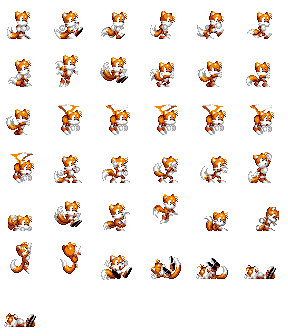
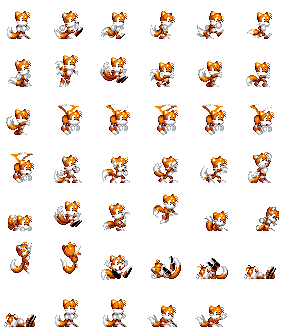
Add throwing in crouch animation

diff --git a/app/jni/src/character.cpp b/app/jni/src/character.cpp
@@ -26,7 +26,7 @@ void TA_Character::handleInput()
     //TA::printLog("%f %f", position.x, position.y);
     controller.setAnalogStick(helitail);
     controller.update();
-    if(climb || throwing || dead) {
+    if(state != STATE_NORMAL) {
         return;
     }
 
@@ -42,15 +42,15 @@ void TA_Character::update()
         areaLoopSound.play();
     }
 
-    if(climb) {
+    if(state == STATE_CLIMB_LOW || state == STATE_CLIMB_HIGH) {
         updateClimbAnimation();
         return;
     }
-    if(throwing) {
+    if(state == STATE_THROW_BOMB) {
         updateThrowAnimation();
         return;
     }
-    if(dead) {
+    if(state == STATE_DEAD) {
         invincibleTimeLeft -= TA::elapsedTime;
         return;
     }
@@ -59,7 +59,7 @@ void TA_Character::update()
     setFlip(flip);
     updateObjectCollision();
     updateTool();
-    if(throwing) {
+    if(state == STATE_THROW_BOMB) {
         return;
     }
     updateAnimation();
@@ -122,7 +122,7 @@ void TA_Character::updateTool()
         return;
     }
     switch(currentTool) {
-        case TA_TOOL_BOMB:
+        case TOOL_BOMB:
             if(helitail) {
                 links.objectSet->spawnObject<TA_Bomb>(position + TA_Point(20, 32), flip, TA_BOMB_MODE_HELITAIL);
             }
@@ -130,12 +130,14 @@ void TA_Character::updateTool()
                 links.objectSet->spawnObject<TA_Bomb>(position + TA_Point((flip ? 25 : 10), 8), flip, TA_BOMB_MODE_AIR);
             }
             else if(crouch) {
-                links.objectSet->spawnObject<TA_Bomb>(position + TA_Point((flip ? 12 : 23), 20), flip, TA_BOMB_MODE_CROUCH);
+                links.objectSet->spawnObject<TA_Bomb>(position + TA_Point((flip ? 12 : 23), 22), flip, TA_BOMB_MODE_CROUCH);
+                setAnimation("throw_crouch");
+                state = STATE_THROW_BOMB;
             }
             else {
                 links.objectSet->spawnObject<TA_Bomb>(position + TA_Point((flip ? 27 : 8), 12), flip, TA_BOMB_MODE_DEFAULT);
                 setAnimation("throw");
-                throwing = true;
+                state = STATE_THROW_BOMB;
             }
             break;
 
@@ -148,9 +150,9 @@ void TA_Character::updateClimbAnimation()
 {
     if(!isAnimated()) {
         position = climbPosition;
-        climb = false;
+        state = STATE_NORMAL;
     }
-    else if(climbHigh && getAnimationFrame() == 1) {
+    else if(state == STATE_CLIMB_HIGH && getAnimationFrame() == 1) {
         setPosition(position.x, position.y - 8);
     }
     else if(getAnimationFrame() == 2) {
@@ -162,7 +164,7 @@ void TA_Character::updateClimbAnimation()
 void TA_Character::updateThrowAnimation()
 {
     if(!isAnimated()) {
-        throwing = false;
+        state = STATE_NORMAL;
     }
     updateFollowPosition();
 }
@@ -170,7 +172,7 @@ void TA_Character::updateThrowAnimation()
 void TA_Character::updateFollowPosition()
 {
     TA_Point sourcePosition = position;
-    if(climb) {
+    if(state == STATE_CLIMB_LOW || state == STATE_CLIMB_HIGH) {
         sourcePosition.x = climbPosition.x;
     }
     followPosition = sourcePosition + TA_Point(22 - TA::screenWidth / 2, 26 - TA::screenHeight / 2);

diff --git a/app/jni/src/character_collision.cpp b/app/jni/src/character_collision.cpp
@@ -30,7 +30,7 @@ void TA_Character::updateCollisions()
         useHalfSolidTiles = true;
     }
     else if(velocity.y > 0.01) {
-        if(!useHalfSolidTiles) {
+        if(!useHalfSolidTiles) { // TODO: find a better way to fix this
             useHalfSolidTiles = true;
             TA_Polygon hitbox;
             hitbox.setRectangle(topLeft, bottomRight);
@@ -45,7 +45,7 @@ void TA_Character::updateCollisions()
     }
 
     updateClimb();
-    if(climb) {
+    if(state == STATE_CLIMB_LOW || state == STATE_CLIMB_HIGH) {
         return;
     }
     int flags = moveAndCollide(topLeft, bottomRight, velocity, ground);
@@ -103,7 +103,7 @@ void TA_Character::updateCollisions()
             invincibleTimeLeft = invincibleTime;
             if(rings < 0) {
                 setAnimation("death");
-                dead = true;
+                state = STATE_DEAD;
             }
         }
     }
@@ -121,7 +121,7 @@ void TA_Character::updateClimb()
     }
 
     auto updateClimbPosition = [&](int height) {
-        if(climb) {
+        if(state == STATE_CLIMB_LOW || state == STATE_CLIMB_HIGH) {
             return;
         }
         climbPosition = position;
@@ -166,15 +166,14 @@ void TA_Character::updateClimb()
             if(flags == TA_GROUND_COLLISION) {
                 ground = true;
                 jump = spring = wall = false;
-                climb = true;
                 climbTime = 0;
                 if(height == 32) {
                     setAnimation("climb_high");
-                    climbHigh = true;
+                    state = STATE_CLIMB_HIGH;
                 }
                 else {
                     setAnimation("climb");
-                    climbHigh = false;
+                    state = STATE_CLIMB_LOW;
                 }
                 if(controller.getDirection() == TA_DIRECTION_LEFT) {
                     position = climbPosition + TA_Point(13, height);

diff --git a/app/jni/src/objects/bomb.cpp b/app/jni/src/objects/bomb.cpp
@@ -2,23 +2,23 @@
 #include "tools.h"
 #include "objects/explosion.h"
 
-void TA_Bomb::load(TA_Point newPosition, bool newDirection, TA_BombMode mode) {
+void TA_Bomb::load(TA_Point newPosition, bool newDirection, TA_BombMode newMode) {
     TA_Sprite::load("objects/bomb.png");
     explosionSound.load("sound/explosion.ogg", TA_SOUND_CHANNEL_SFX);
     position = newPosition;
     setPosition(position);
     hitbox.setRectangle(TA_Point(1.5, 2.5), TA_Point(11.5, 13.5));
+    mode = newMode;
     if(mode == TA_BOMB_MODE_AIR) {
         velocity = startVelocity;
         timer = 10;
     }
     if (mode == TA_BOMB_MODE_CROUCH) {
         velocity = startCrouchVelocity;
-        timer = 10;
     }
     else if (mode == TA_BOMB_MODE_HELITAIL) {
         velocity = startHelitailVelocity;
-        timer = 10;
+        timer =  10;
     }
     else {
         velocity = startVelocity;
@@ -39,14 +39,20 @@ bool TA_Bomb::checkPawnCollision(TA_Polygon &hitbox)
 
 bool TA_Bomb::update()
 {
-    bool flag1 = (timer <= 6);
+    int moveTime = (mode == TA_BOMB_MODE_DEFAULT ? 6 : 8);
+    bool flag1 = (timer <= moveTime);
     timer += TA::elapsedTime;
-    bool flag2 = (timer >= 6);
+    bool flag2 = (timer >= moveTime);
 
     if(flag1 && flag2) {
-        position = position + TA_Point(9 * (direction ? -1 : 1), -6);
+        if(mode == TA_BOMB_MODE_DEFAULT) {
+            position = position + TA_Point(9 * (direction ? -1 : 1), -6);
+        }
+        else {
+            position = position + TA_Point(5 * (direction ? -1 : 1), -6);
+        }
     }
-    else if(timer >= 6) {
+    else if(timer >= moveTime) {
         velocity.y += grv * TA::elapsedTime;
         moveAndCollide(TA_Point(2, 3), TA_Point(11, 13), velocity);
         int flags;

diff --git a/app/jni/src/character.h b/app/jni/src/character.h
@@ -8,12 +8,20 @@
 #include "tilemap.h"
 #include "sound.h"
 
-enum TA_CharacterTool {
-    TA_TOOL_BOMB
-};
-
 class TA_Character : public TA_Pawn {
 private:
+    enum TA_CharacterTool {
+        TOOL_BOMB
+    };
+
+    enum TA_CharacterState {
+        STATE_NORMAL, // TODO: create ground, air, helitail state
+        STATE_CLIMB_LOW,
+        STATE_CLIMB_HIGH,
+        STATE_THROW_BOMB,
+        STATE_DEAD
+    };
+
     const double jmp = -2.5;
     const double grv = 0.125;
     const double acc = 0.25;
@@ -35,15 +43,18 @@ private:
     TA_Polygon hitbox;
     TA_Point topLeft, bottomRight;
 
+    TA_CharacterState state = STATE_NORMAL;
+
     bool ground = false, helitail = false, wall = false, flip = false;
     bool jump = false, jumpReleased = false, spring = false;
-    bool climb = false, climbHigh = false, throwing = false, hurt = false, dead = false;
+    bool hurt = false;
     bool lookUp = false, crouch = false;
     bool useHalfSolidTiles = false;
+
     double jumpTime = 0, climbTime = 0, helitailTime = 0, invincibleTimeLeft = -1;
     double deltaX = 0;
     int rings = 1;
-    int currentTool = TA_TOOL_BOMB;
+    int currentTool = TOOL_BOMB;
 
     void physicsStep();
     void updateGround();
@@ -73,7 +84,7 @@ public:
 
     int getRingsCount() {return std::max(0, rings);}
     int getCurrentItem() {return 0;}
-    bool gameOver() {return dead && invincibleTimeLeft <= 0;}
+    bool gameOver() {return state == STATE_DEAD && invincibleTimeLeft <= 0;}
 };
 
 #endif // TA_CHARACTER_H

diff --git a/app/jni/src/objects/bomb.h b/app/jni/src/objects/bomb.h
@@ -16,12 +16,14 @@ class TA_Bomb : public TA_Object {
 private:
     TA_Point velocity;
     TA_Sound explosionSound;
+    TA_BombMode mode;
+
     bool direction;
     double timer = 0;
 
     const double speed = 1.15;
     const TA_Point startVelocity = {2 * speed, -1 * speed};
-    const TA_Point startCrouchVelocity = {1.35 * speed, -1 * speed};
+    const TA_Point startCrouchVelocity = {1.35 * speed, -0.7 * speed};
     const TA_Point startHelitailVelocity = {0, 0};
     const double grv = 0.125 * speed * speed;
 

diff --git a/app/jni/src/game.cpp b/app/jni/src/game.cpp
@@ -118,6 +118,7 @@ void TA_Game::update()
         firstFrame = false;
     }
     TA::elapsedTime = (double)(std::chrono::duration_cast<std::chrono::microseconds>(currentTime - startTime).count()) / 1e6 * 60;
+    //TA::elapsedTime /= 10;
     startTime = currentTime;
 
     SDL_SetRenderDrawColor(TA::renderer, 0, 0, 0, 255);
